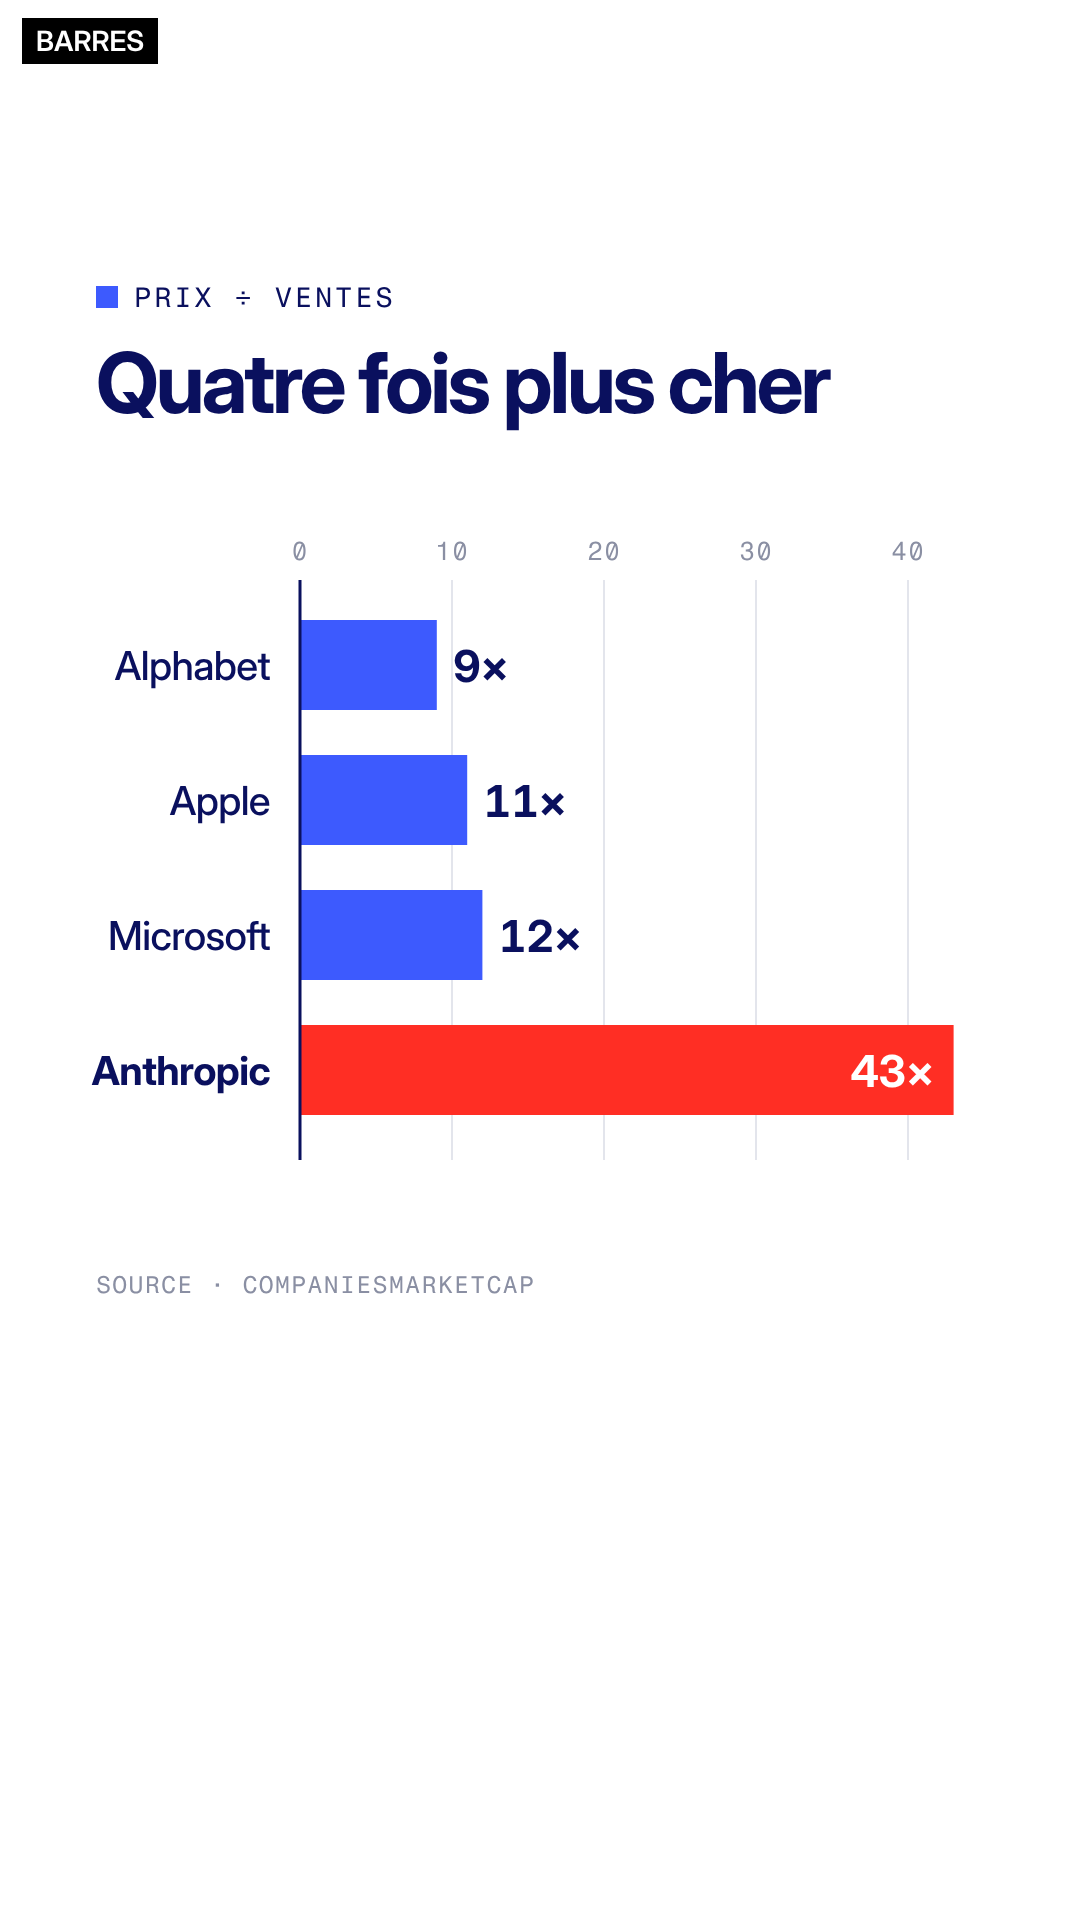
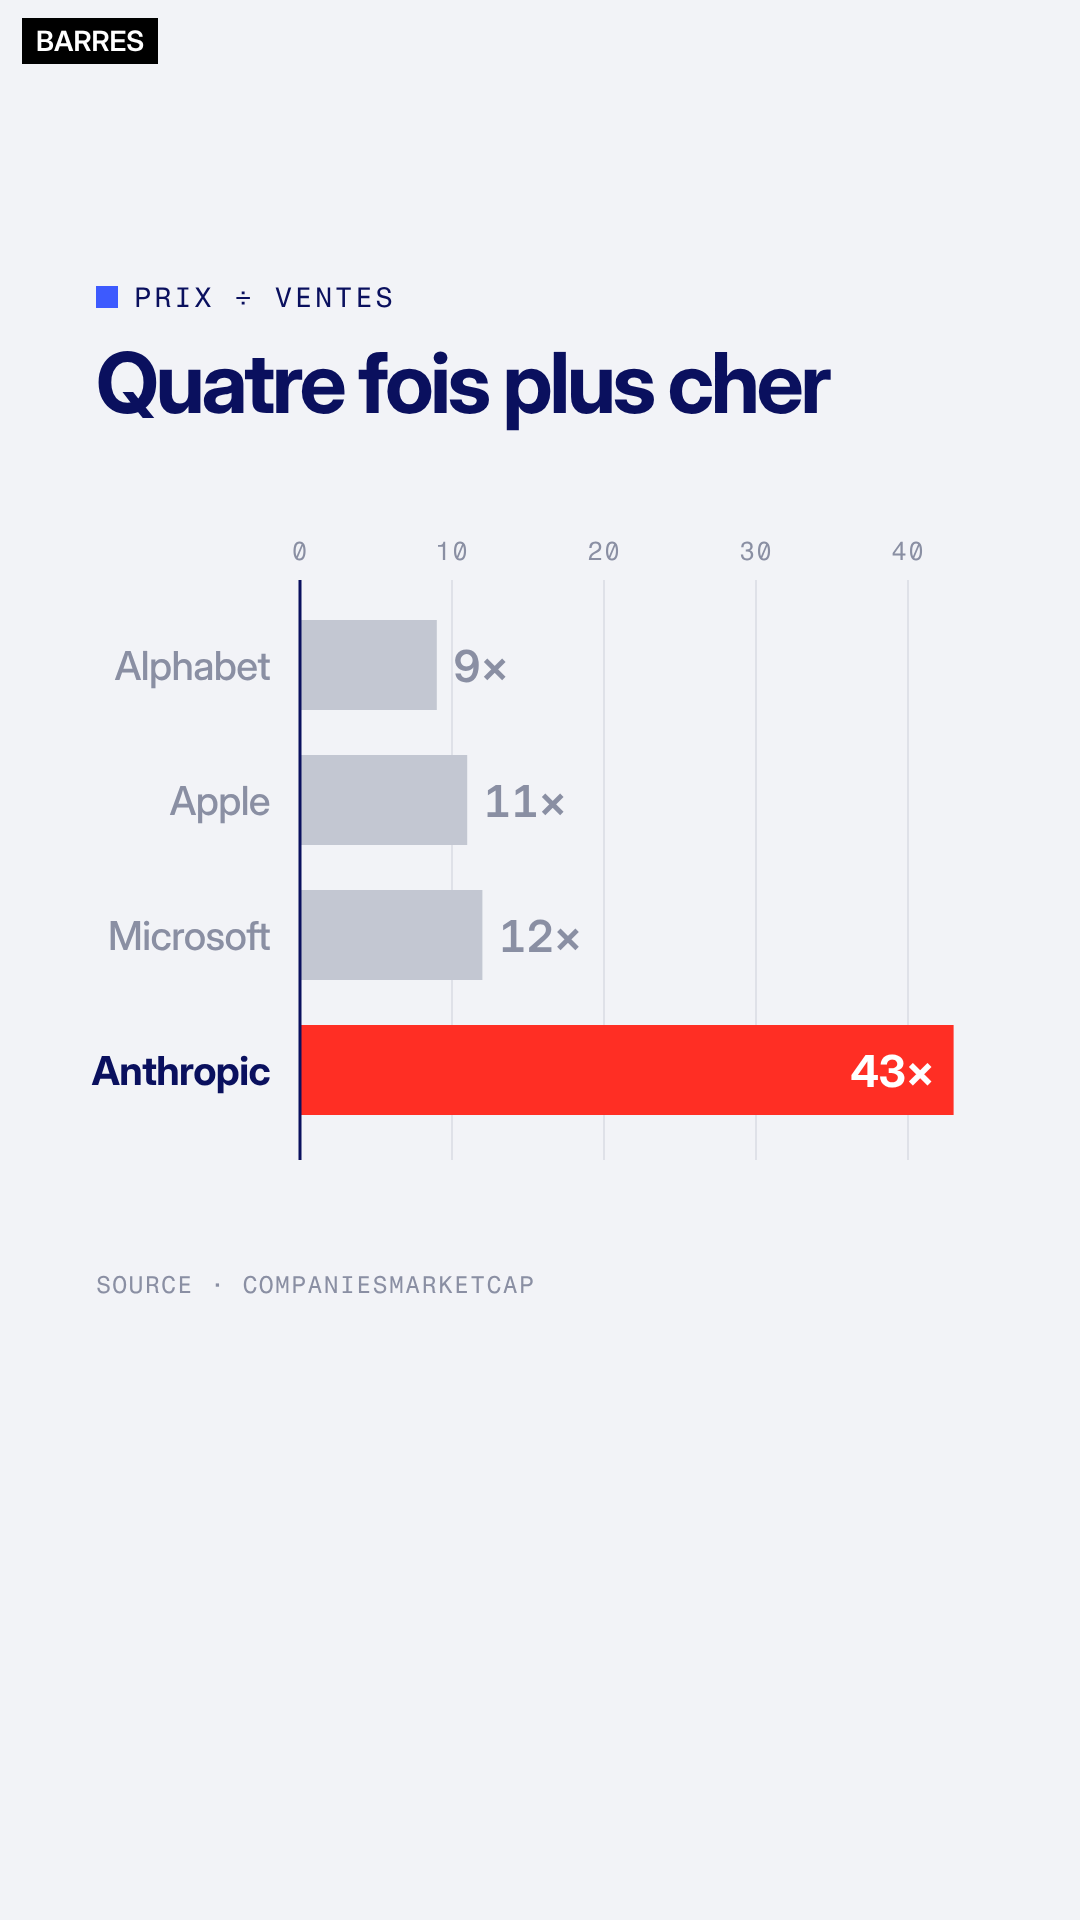
Style éditorial : seul le point à montrer en couleur, fond gris bleuté
Claude-Session: https://claude.ai/code/session_0172khLHKtjafTGZdmNpPSJZ

diff --git a/financedata-univers/branding-signal/planche-A3.html b/financedata-univers/branding-signal/planche-A3.html
@@ -7,12 +7,13 @@
 <style>
   /* Style éditorial finance/tech, version épurée : par écran, une rubrique (avec l'unité), un titre court,
      le graphique et la source. Pas de sous-titre, pas de phrase d'explication : le graphique et un seul chiffre
-     mis en avant suffisent. Angles droits, bleu FinanceData, rouge pour l'alerte. */
+     mis en avant suffisent. Angles droits, fond gris bleuté très clair (pas de blanc pur).
+     Seul ce qu'on veut montrer est en couleur (bleu FinanceData, ou rouge si c'est une alerte) : le reste est gris. */
   @font-face { font-family: "Display"; src: url("fonts/inter-display-latin-var.woff2"); font-weight: 100 900; }
   @font-face { font-family: "Mono"; src: url("fonts/fragment-mono-latin-400-normal.woff2"); }
   * { margin: 0; padding: 0; box-sizing: border-box; }
   body { background: #2a2a2e; display: flex; flex-wrap: wrap; gap: 60px; padding: 60px; width: 3540px; font-family: "Display"; font-variation-settings: "opsz" 32; -webkit-font-smoothing: antialiased; }
-  .f { position: relative; width: 1080px; height: 1920px; overflow: hidden; flex: none; background: #fff; color: #0a105e; }
+  .f { position: relative; width: 1080px; height: 1920px; overflow: hidden; flex: none; background: #f2f3f7; color: #0a105e; }
   .rub { position: absolute; left: 96px; top: 280px; display: flex; align-items: center; gap: 16px; font-family: "Mono"; font-size: 28px; letter-spacing: .1em; text-transform: uppercase; color: #0a105e; }
   .rub i { width: 22px; height: 22px; background: #3d5afe; display: block; }
   .ti { position: absolute; left: 96px; right: 96px; top: 340px; font-weight: 700; font-size: 84px; letter-spacing: -.04em; line-height: 1.02; }
@@ -35,7 +36,7 @@
   <svg id="s1" width="1080" height="700" style="left:0; top:520px"></svg>
   <div class="src">Source · prospectus S-1</div></div>
 
-<div class="f" id="k2"><div class="lbl">BLOCS · ALERTE</div><div class="rub"><i></i>Perte S1 2026</div>
+<div class="f" id="k2"><div class="lbl">BLOCS · PROPORTION</div><div class="rub"><i></i>Perte S1 2026</div>
   <div class="ti">Une perte surtout comptable</div>
   <svg id="s2" width="1080" height="700" style="left:0; top:520px"></svg>
   <div class="src">Source · prospectus S-1</div></div>
@@ -57,7 +58,7 @@
 
 <script>
 var NS = "http://www.w3.org/2000/svg";
-var FD = "#3d5afe", NAVY = "#0a105e", RED = "#ff2e24", GRID = "#e3e5ec", AX = "#8a8fa3", PALE = "#c9cff5", EMPTY = "#e8eaf2";
+var FD = "#3d5afe", NAVY = "#0a105e", RED = "#ff2e24", GRID = "#dfe1e8", AX = "#8a8fa3", GREY = "#c3c7d2", PALE = "#c3c7d2", EMPTY = "#dfe1e8";
 function el(svg, tag, a, text) { var e = document.createElementNS(NS, tag); for (var k in a) e.setAttribute(k, a[k]); if (text != null) e.textContent = text; svg.appendChild(e); return e; }
 function T(svg, x, y, s, size, fill, w, anchor, mono) { return el(svg, "text", { x: x, y: y, "font-size": size, fill: fill, "font-weight": w || 500, "text-anchor": anchor || "start", class: mono ? "m" : "", "letter-spacing": mono ? 1 : -size * .015 }, s); }
 function fr(v) { return Math.round(v).toLocaleString("fr-FR").replace(/[  ]/g, " "); }
@@ -77,14 +78,14 @@ function blocks(g, parts, big, bigCol, sub) {
 (function () { var g = $("s0"), X = function (v) { return 300 + v / 45 * 684; };
   [0, 10, 20, 30, 40].forEach(function (v) { el(g, "line", { x1: X(v), x2: X(v), y1: 60, y2: 640, stroke: GRID, "stroke-width": 2 }); T(g, X(v), 40, String(v), 26, AX, 400, "middle", 1); });
   [["Alphabet", 9], ["Apple", 11], ["Microsoft", 12], ["Anthropic", 43]].forEach(function (r, i) { var y = 100 + i * 135, hi = i === 3;
-    el(g, "rect", { x: 300, y: y, width: X(r[1]) - 300, height: 90, fill: hi ? RED : FD });
-    T(g, 270, y + 60, r[0], 40, NAVY, hi ? 700 : 500, "end");
-    T(g, hi ? X(r[1]) - 20 : X(r[1]) + 16, y + 62, r[1] + "×", 44, hi ? "#fff" : NAVY, 700, hi ? "end" : "start"); });
+    el(g, "rect", { x: 300, y: y, width: X(r[1]) - 300, height: 90, fill: hi ? RED : GREY });
+    T(g, 270, y + 60, r[0], 40, hi ? NAVY : AX, hi ? 700 : 500, "end");
+    T(g, hi ? X(r[1]) - 20 : X(r[1]) + 16, y + 62, r[1] + "×", 44, hi ? "#fff" : AX, hi ? 700 : 600, hi ? "end" : "start"); });
   el(g, "line", { x1: 300, x2: 300, y1: 60, y2: 640, stroke: NAVY, "stroke-width": 3 });
 })();
 
 blocks($("s1"), [[25, FD]], "25 %", FD, "2 clients");
-blocks($("s2"), [[89, FD], [11, RED]], "89 %", FD, "comptable");
+blocks($("s2"), [[89, FD], [11, GREY]], "89 %", FD, "comptable");
 
 // courbe : bleu FinanceData jusqu'au sommet, rouge ensuite
 (function () { var g = $("s3"), R = window.RMS, tt = function (d) { return +d.slice(0, 4) + (+d.slice(5, 7) - 1) / 12 + (+d.slice(8, 10)) / 365; };
@@ -92,9 +93,9 @@ blocks($("s2"), [[89, FD], [11, RED]], "89 %", FD, "comptable");
   var X = function (v) { return 96 + (v - t0) / (t1 - t0) * 790; }, Y = function (v) { return 620 - v / 3000 * 540; };
   var d = function (rows) { return rows.map(function (r, i) { return (i ? "L" : "M") + X(tt(r[0])).toFixed(1) + " " + Y(r[1]).toFixed(1); }).join(" "); };
   [0, 1000, 2000, 3000].forEach(function (v) { el(g, "line", { x1: 96, x2: 984, y1: Y(v), y2: Y(v), stroke: v ? GRID : NAVY, "stroke-width": v ? 2 : 3 }); T(g, 984, Y(v) - 12, fr(v), 26, AX, 400, "end", 1); });
-  el(g, "path", { d: d(R.slice(0, ipk + 1)), fill: "none", stroke: FD, "stroke-width": 6 });
+  el(g, "path", { d: d(R.slice(0, ipk + 1)), fill: "none", stroke: GREY, "stroke-width": 5 });
   el(g, "path", { d: d(R.slice(ipk)), fill: "none", stroke: RED, "stroke-width": 6 });
-  el(g, "rect", { x: X(tt(pk[0])) - 10, y: Y(pk[1]) - 10, width: 20, height: 20, fill: NAVY });
+  el(g, "rect", { x: X(tt(pk[0])) - 10, y: Y(pk[1]) - 10, width: 20, height: 20, fill: RED });
   el(g, "rect", { x: X(tt(ls[0])) - 11, y: Y(ls[1]) - 11, width: 22, height: 22, fill: RED });
   T(g, 96, 670, "2018", 26, AX, 400, "start", 1); T(g, X(t1), 670, "2026", 26, AX, 400, "end", 1);
 })();
@@ -104,7 +105,7 @@ blocks($("s2"), [[89, FD], [11, RED]], "89 %", FD, "comptable");
   [0, 1000, 2000].forEach(function (v) { el(g, "line", { x1: 96, x2: 984, y1: Y(v), y2: Y(v), stroke: v ? GRID : NAVY, "stroke-width": v ? 2 : 3 }); T(g, 984, Y(v) - 12, fr(v), 26, AX, 400, "end", 1); });
   el(g, "rect", { x: 170, y: Y(965), width: 300, height: 620 - Y(965), fill: PALE });
   el(g, "rect", { x: 540, y: Y(2000), width: 300, height: 620 - Y(2000), fill: FD });
-  T(g, 320, Y(965) - 24, "965", 48, NAVY, 600, "middle");
+  T(g, 320, Y(965) - 24, "965", 48, AX, 600, "middle");
   T(g, 690, Y(2000) + 130, "×2", 110, "#fff", 700, "middle");
   T(g, 320, 670, "MAI", 26, AX, 400, "middle", 1); T(g, 690, 670, "OCTOBRE", 26, NAVY, 400, "middle", 1);
 })();
@@ -114,7 +115,7 @@ blocks($("s2"), [[89, FD], [11, RED]], "89 %", FD, "comptable");
   [0, 25, 50].forEach(function (v) { el(g, "line", { x1: 96, x2: 984, y1: Y(v), y2: Y(v), stroke: v ? GRID : NAVY, "stroke-width": v ? 2 : 3 }); T(g, 984, Y(v) - 12, String(v), 26, AX, 400, "end", 1); });
   el(g, "rect", { x: 170, y: Y(3.2), width: 300, height: 620 - Y(3.2), fill: PALE });
   el(g, "rect", { x: 540, y: Y(45), width: 300, height: 620 - Y(45), fill: FD });
-  T(g, 320, Y(3.2) - 24, "3,2", 48, NAVY, 600, "middle"); T(g, 690, Y(45) + 90, "45", 64, "#fff", 700, "middle");
+  T(g, 320, Y(3.2) - 24, "3,2", 48, AX, 600, "middle"); T(g, 690, Y(45) + 90, "45", 64, "#fff", 700, "middle");
   T(g, 320, 670, "IL Y A UN AN", 26, AX, 400, "middle", 1); T(g, 690, 670, "AUJOURD'HUI", 26, NAVY, 400, "middle", 1);
 })();
 </script>
